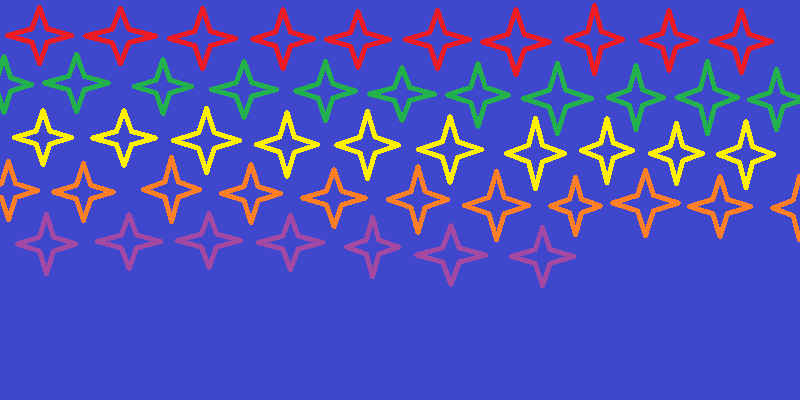
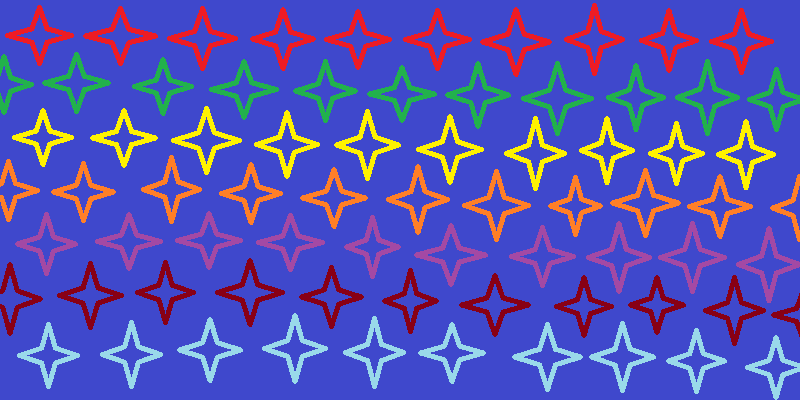
TexturedPhongMaterial funktioniert

Changed region(s): [[0.0, 0.54, 1.0, 1.0]]

diff --git a/src/cgg/a04/Main.java b/src/cgg/a04/Main.java
@@ -1,8 +1,6 @@
 package cgg.a04;
 
-import static tools.Color.blue;
-import static tools.Color.green;
-import static tools.Color.red;
+import static tools.Color.gray;
 import static tools.Color.white;
 import static tools.Functions.*;
 import cgg.a02.*;
@@ -22,19 +20,16 @@ public class Main {
 
     //Licht und Kamera erstellen
     ArrayList<Lichtquelle> licht = new ArrayList<>();
-    //licht.add(new Richtungslichtquelle(vec3(10,0,6), white));
-    //licht.add(new Richtungslichtquelle(vec3(10,-10,5), white));
-    //licht.add(new Richtungslichtquelle(vec3(-10,-10,5), white));
-    licht.add(new Richtungslichtquelle(vec3(-10,-10,10), white));
+    licht.add(new Richtungslichtquelle(vec3(10,-10,10), white));
     //licht.add(new Punktlichtquelle(vec3(10,-10,5), red));
     //licht.add(new Punktlichtquelle(vec3(-10,-10,5), blue));
     Lochkamera kamera = new Lochkamera(Math.PI/2, 400, 400);
 
     //Szene mit Kugeln erstellen
     ArrayList<Kugel> k = new ArrayList<>(); //auskommentiert, da Konstruktor veraendert
-    k.add(new Kugel(vec3(0,1001,-15), 1000, new TexturedPhongMaterial(new ConstantColor(white), new ConstantColor(white), new ConstantColor(color(1000.0)))));
-    //k.add(new Kugel(vec3(2.3,0,-5), 1, new TexturedPhongMaterial(new ImageTexture("data/sterne.png"), new ConstantColor(white), new ConstantColor(color(1000.0)))));
-    k.add(new Kugel(vec3(0,-1.3,-4), 1.7, new TexturedPhongMaterial(new ImageTexture("data/sterne2.png"), new ConstantColor(white), new ConstantColor(color(1000.0)))));
+    k.add(new Kugel(vec3(0,1001,-15), 1000, new PhongMaterial(gray, white, 1000.0)));
+    TexturedPhongMaterial musterKugel = new TexturedPhongMaterial(new ImageTexture("data/sterne2.png"), new ConstantColor(white), new ConstantColor(color(1000.0)));
+    k.add(new Kugel(vec3(0,-1.3,-4), 1.7, musterKugel));
 
     Kugelgruppe kugelScene = new Kugelgruppe(k); //erstellt Szene mit Kugeln
 

diff --git a/src/cgg/a02/Kugel.java b/src/cgg/a02/Kugel.java
@@ -34,13 +34,18 @@ public class Kugel {
 
         Vec3 punkt1 = r.gibStrahlPunkt(t1);
         Vec3 punkt2 = r.gibStrahlPunkt(t2);
-        //uv berechnen
-        double u1 = (Math.atan(punkt1.u()/punkt1.w()) + Math.PI)/(2 * Math.PI);
-        double u2 = (Math.atan(punkt2.u()/punkt2.w()) + Math.PI)/(2 * Math.PI);
-        double v1 = (Math.PI - Math.acos(punkt1.v()/radius))/(Math.PI);
-        double v2 = (Math.PI - Math.acos(punkt2.v()/radius))/(Math.PI);
+        //Punkte x,y und z auf der Kugel berechnen
+        Vec3 kugelPunkt1 = subtract(punkt1, mittelpunkt);
+        Vec3 kugelPunkt2 = subtract(punkt2, mittelpunkt);
+        //uv berechnen, Berechnung funktioniert noch nicht richtig???
+        double u1 = (Math.atan2(kugelPunkt1.w(),kugelPunkt1.u()) + Math.PI)/(2 * Math.PI);
+        double u2 = (Math.atan2(kugelPunkt2.w(),kugelPunkt2.u()) + Math.PI)/(2 * Math.PI);
+        double v1 = (Math.PI - Math.acos(kugelPunkt1.v()/radius))/(Math.PI);
+        double v2 = (Math.PI - Math.acos(kugelPunkt2.v()/radius))/(Math.PI);
         Vec2 uv1 = vec2(u1,v1);
         Vec2 uv2 = vec2(u2,v2);
+
+        
 
         Hit hit = new Hit(t1, punkt1, divide(subtract(r.gibStrahlPunkt(t1), mittelpunkt),radius) , material, this, uv1); //Trefferpunkt fuer t1 berechnen
         Hit hit2 = new Hit(t2, punkt2, divide(subtract(r.gibStrahlPunkt(t2), mittelpunkt),radius) , material, this, uv2);

diff --git a/src/cgg/a04/TexturedPhongMaterial.java b/src/cgg/a04/TexturedPhongMaterial.java
@@ -1,7 +1,5 @@
 package cgg.a04;
 
-import static tools.Color.white;
-
 import cgg.a02.Hit;
 import tools.Color;
 import tools.Sampler;
